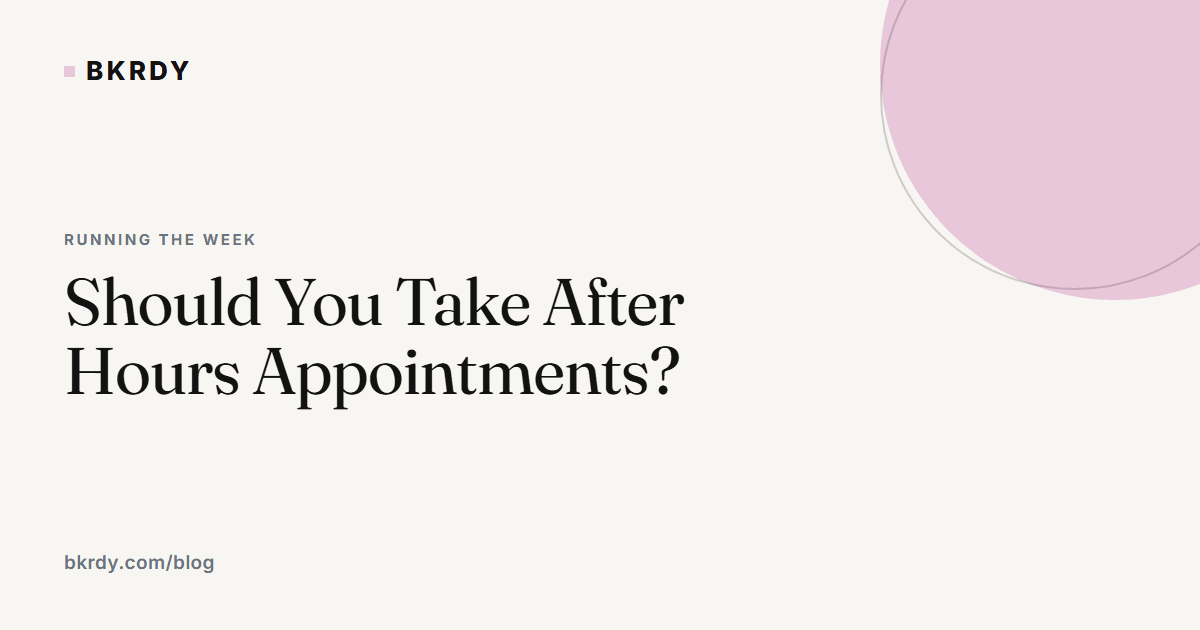
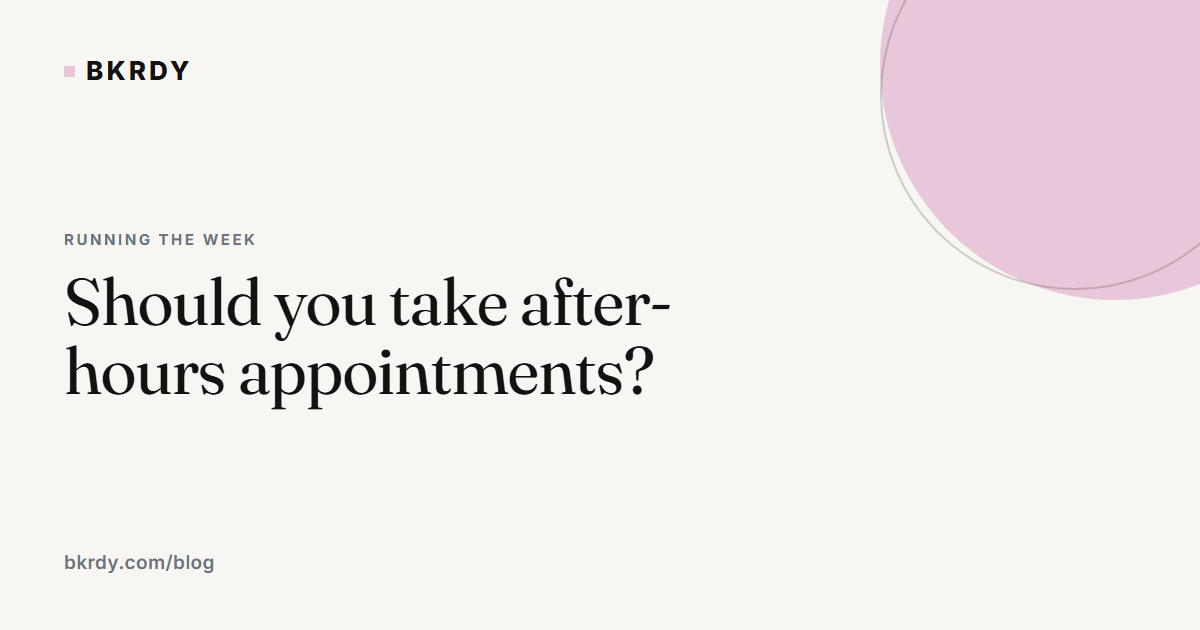
Blog: set every title in the batch the same way
Six of the twenty two came back in Title Case and wrapped in quotes while the
rest were sentence case. A blog whose titles are set two ways looks
unplanned. Share images re-rendered to match.

Changed region(s): [[0.0617, 0.4222, 0.5858, 0.6635]]

diff --git a/content/blog/booking-link-vs-google-calendar.md b/content/blog/booking-link-vs-google-calendar.md
@@ -2,8 +2,8 @@
 key: booking-link-vs-google-calendar
 section: blog
 slug: booking-link-vs-google-calendar
-title: "A Google Calendar Booking Link Is Not a Booking Page"
-metaTitle: "A Google Calendar Booking Link Is Not a Booking Page | BKRDY"
+title: A Google Calendar link is not a booking page
+metaTitle: A Google Calendar link is not a booking page | BKRDY
 description: A free calendar appointment link shows your free time. It cannot take a deposit, handle turnaround or send a reminder a client sees. Where that costs you.
 date: 2026-11-17
 pillar: your-site

diff --git a/content/blog/blocking-time-that-is-not-clients.md b/content/blog/blocking-time-that-is-not-clients.md
@@ -2,8 +2,8 @@
 key: blocking-time-that-is-not-clients
 section: blog
 slug: blocking-time-that-is-not-clients
-title: "The Hours in Your Week That Are Not Appointments"
-metaTitle: "The Hours in Your Week That Are Not Appointments | BKRDY"
+title: The hours in your week that are not appointments
+metaTitle: The hours in your week that are not appointments | BKRDY
 description: Ordering, laundry, admin, photos: real work that is nowhere in your calendar, so it happens after the last client or not at all. How to block it.
 date: 2026-11-19
 pillar: the-week

diff --git a/content/blog/buffer-time-between-appointments.md b/content/blog/buffer-time-between-appointments.md
@@ -2,8 +2,8 @@
 key: buffer-time-between-appointments
 section: blog
 slug: buffer-time-between-appointments
-title: "Buffer Time Between Appointments: The Quiet Fix"
-metaTitle: "Buffer Time Between Appointments: The Quiet Fix | BKRDY"
+title: Buffer time between appointments: the quiet fix
+metaTitle: Buffer time between appointments: the quiet fix | BKRDY
 description: A day that runs thirty minutes late by 3pm is a calendar problem, not a slow client. How to find your real service time and build the buffer back in.
 date: 2026-11-02
 pillar: the-week

diff --git a/content/blog/the-squeeze-in.md b/content/blog/the-squeeze-in.md
@@ -2,8 +2,8 @@
 key: the-squeeze-in
 section: blog
 slug: the-squeeze-in
-title: "The Squeeze In: Saying Yes Without Wrecking Your Day"
-metaTitle: "The Squeeze In: Saying Yes Without Wrecking Your Day | BKRDY"
+title: The squeeze-in: saying yes without wrecking your day
+metaTitle: The squeeze-in: saying yes without wrecking your day | BKRDY
 description: Everybody fits in the odd last minute client and nobody has a rule for it. Three conditions that make one safe, plus the no that keeps them.
 date: 2026-11-24
 pillar: the-week

diff --git a/content/blog/after-hours-appointments.md b/content/blog/after-hours-appointments.md
@@ -2,8 +2,8 @@
 key: after-hours-appointments
 section: blog
 slug: after-hours-appointments
-title: "Should You Take After Hours Appointments?"
-metaTitle: "Should You Take After Hours Appointments? | BKRDY"
+title: Should you take after-hours appointments?
+metaTitle: Should you take after-hours appointments? | BKRDY
 description: Almost everyone takes the odd evening appointment and almost nobody has decided how. Three honest ways to run after hours slots, or to stop.
 date: 2026-11-16
 pillar: the-week

diff --git a/content/blog/how-many-clients-per-day.md b/content/blog/how-many-clients-per-day.md
@@ -2,8 +2,8 @@
 key: how-many-clients-per-day
 section: blog
 slug: how-many-clients-per-day
-title: "How Many Clients a Day Is Too Many?"
-metaTitle: "How Many Clients a Day Is Too Many? | BKRDY"
+title: How many clients a day is too many?
+metaTitle: How many clients a day is too many? | BKRDY
 description: Your real ceiling is not the number of slots that fit in your opening hours. How to find your own number, and why the last slot of a full day rarely pays.
 date: 2026-11-11
 pillar: the-week
